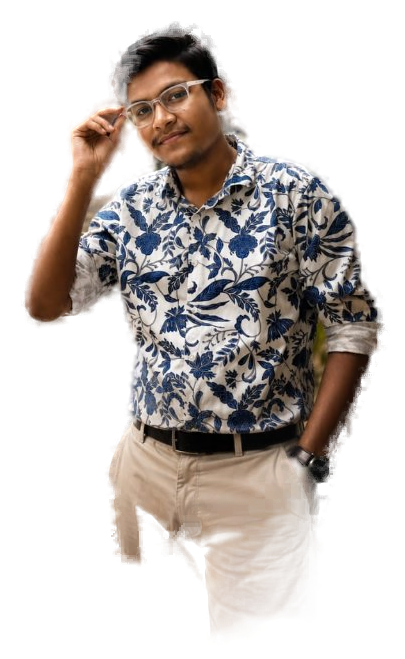
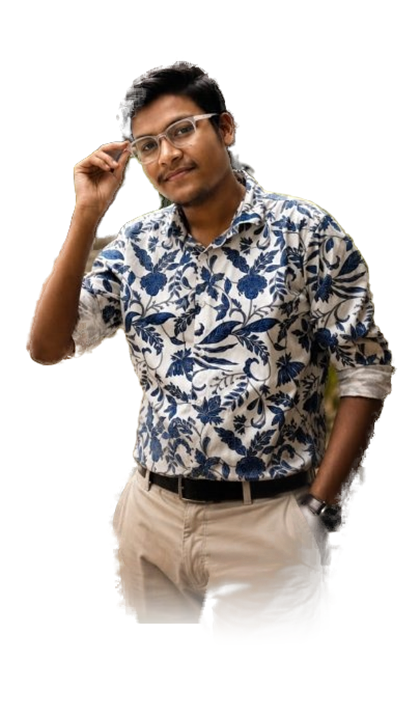
new updates

diff --git a/Portfolio/frontend/src/components/Hero.tsx b/Portfolio/frontend/src/components/Hero.tsx
@@ -18,9 +18,9 @@ export default function Hero({ onPlay, onResume, profileId }: { onPlay: () => vo
   const { scrollTo } = useSmoothScroll();
 
   const { scrollYProgress } = useScroll({ target: ref, offset: ['start start', 'end start'] });
-  const imgY = useTransform(scrollYProgress, [0, 1], ['0%', '18%']);
+  const imgY = useTransform(scrollYProgress, [0, 1], ['0%', '10%']);
   const imgScale = useTransform(scrollYProgress, [0, 1], [1, 1.12]);
-  const textY = useTransform(scrollYProgress, [0, 1], ['0%', '-30%']);
+  const textY = useTransform(scrollYProgress, [0, 1], ['0%', '-14%']);
   const fade = useTransform(scrollYProgress, [0, 0.75], [1, 0]);
   const blackout = useTransform(scrollYProgress, [0.35, 1], [0, 1]);
 
@@ -75,7 +75,7 @@ export default function Hero({ onPlay, onResume, profileId }: { onPlay: () => vo
 
       {/* portrait */}
       <motion.div
-        className="absolute inset-x-0 top-12 z-[2] flex h-[64svh] items-end justify-center sm:h-[70svh] lg:bottom-0 lg:left-auto lg:right-[3vw] lg:top-20 lg:h-auto lg:w-[54vw] xl:right-[6vw] xl:w-[48vw]"
+        className="absolute inset-x-0 top-14 z-[2] flex h-[58svh] items-end justify-center sm:h-[66svh] lg:bottom-0 lg:left-auto lg:right-[3vw] lg:top-16 lg:h-auto lg:w-[52vw] xl:right-[5vw] xl:w-[48vw]"
         style={{ y: imgY, scale: imgScale, opacity: fade }}
       >
         <motion.div
@@ -92,7 +92,7 @@ export default function Hero({ onPlay, onResume, profileId }: { onPlay: () => vo
             srcSet={profile.portrait.srcSet}
             sizes="(max-width: 1024px) 100vw, 54vw"
             alt={profile.portrait.alt}
-            className="absolute bottom-0 left-1/2 h-full w-auto max-w-none max-h-full -translate-x-1/2 object-contain object-bottom drop-shadow-[0_30px_60px_rgba(0,0,0,0.6)] [mask-image:linear-gradient(to_bottom,black_78%,transparent_100%)]"
+            className="absolute bottom-0 left-1/2 h-full w-auto max-w-none max-h-full -translate-x-1/2 object-contain object-bottom drop-shadow-[0_30px_60px_rgba(0,0,0,0.6)] [mask-image:linear-gradient(to_bottom,black_86%,transparent_100%)]"
           />
           {/* crimson rim light on the image edge */}
           <div aria-hidden className="pointer-events-none absolute inset-0 bg-[radial-gradient(60%_50%_at_80%_30%,rgba(255,61,90,0.16),transparent_70%)] mix-blend-screen" />
@@ -105,13 +105,13 @@ export default function Hero({ onPlay, onResume, profileId }: { onPlay: () => vo
       </motion.div>
 
       {/* readability gradients */}
-      <div aria-hidden className="absolute inset-x-0 top-[40svh] z-[3] h-[36svh] bg-gradient-to-b from-transparent via-ink/70 to-ink lg:hidden" />
+      <div aria-hidden className="absolute inset-x-0 top-[46svh] z-[3] h-[34svh] bg-gradient-to-b from-transparent via-ink/80 to-ink lg:hidden" />
       <div aria-hidden className="absolute inset-0 z-[3] hidden bg-[linear-gradient(90deg,var(--color-ink)_0%,rgba(7,7,10,0.7)_32%,transparent_58%)] lg:block" />
       <div aria-hidden className="absolute inset-x-0 bottom-0 z-[3] h-48 bg-gradient-to-t from-ink to-transparent" />
 
       {/* copy */}
       <motion.div
-        className="gutter relative z-[4] flex min-h-[100svh] flex-col justify-end pb-16 pt-[54svh] sm:pb-20 lg:max-w-[52vw] lg:justify-center lg:pb-0 lg:pt-24"
+        className="gutter relative z-[4] flex min-h-[100svh] flex-col justify-end pb-16 pt-[50svh] sm:pb-20 lg:max-w-[52vw] lg:justify-center lg:pb-0 lg:pt-24"
         style={{ y: textY, opacity: fade }}
         variants={container}
         initial="hidden"

diff --git a/Portfolio/frontend/src/components/OpeningSequence.tsx b/Portfolio/frontend/src/components/OpeningSequence.tsx
@@ -82,7 +82,7 @@ export default function OpeningSequence({ onDone }: { onDone: () => void }) {
 
       {/* portrait */}
       <motion.div
-        className="absolute inset-x-0 bottom-0 z-0 mx-auto flex h-[68vh] max-w-[900px] items-end justify-center pointer-events-none"
+        className="absolute inset-x-0 bottom-0 z-0 mx-auto flex h-[72vh] max-w-[900px] items-end justify-center pointer-events-none"
         initial={{ opacity: 0, scale: 1.08, filter: 'blur(18px) brightness(0.3)' }}
         animate={beat >= 4 ? { opacity: 1, scale: 1, filter: 'blur(0px) brightness(1)' } : {}}
         transition={{ duration: 1.6, ease: EASE }}
@@ -92,7 +92,7 @@ export default function OpeningSequence({ onDone }: { onDone: () => void }) {
           srcSet={profile.portrait.srcSet}
           sizes="(max-width: 768px) 100vw, 900px"
           alt={profile.portrait.alt}
-          className="h-full w-auto max-w-none max-h-full object-contain object-bottom [mask-image:linear-gradient(to_bottom,black_75%,transparent_100%)]"
+          className="h-full w-auto max-w-none max-h-full object-contain object-bottom [mask-image:linear-gradient(to_bottom,black_85%,transparent_100%)]"
         />
       </motion.div>
       <div aria-hidden className="absolute inset-0 z-[1] bg-[radial-gradient(70%_60%_at_50%_40%,transparent_30%,rgba(0,0,0,0.85)_100%)]" />
@@ -103,7 +103,7 @@ export default function OpeningSequence({ onDone }: { onDone: () => void }) {
           className="font-display leading-[0.82] text-bone drop-shadow-[0_8px_40px_rgba(0,0,0,0.8)]"
           style={{ fontSize: 'clamp(4.6rem, 20vw, 15rem)' }}
           initial={{ opacity: 0, scale: 1.3, filter: 'blur(20px)', letterSpacing: '0.5em' }}
-          animate={beat >= 2 ? { opacity: 1, scale: 1, filter: 'blur(0px)', letterSpacing: '0.04em', y: beat >= 4 ? '-30vh' : 0 } : {}}
+          animate={beat >= 2 ? { opacity: 1, scale: 1, filter: 'blur(0px)', letterSpacing: '0.04em', y: beat >= 4 ? '-24vh' : 0 } : {}}
           transition={{ duration: 1.3, ease: EASE }}
         >
           {profile.firstName}
@@ -111,7 +111,7 @@ export default function OpeningSequence({ onDone }: { onDone: () => void }) {
         <motion.p
           className="font-sans text-sm font-bold text-crimson-2 [text-shadow:0_2px_20px_rgba(0,0,0,0.9)] sm:text-lg"
           initial={{ opacity: 0, letterSpacing: '1.4em' }}
-          animate={beat >= 3 ? { opacity: 1, letterSpacing: '0.7em', y: beat >= 4 ? '-30vh' : 0 } : {}}
+          animate={beat >= 3 ? { opacity: 1, letterSpacing: '0.7em', y: beat >= 4 ? '-24vh' : 0 } : {}}
           transition={{ duration: 1.1, ease: EASE }}
         >
           {profile.seriesTag}

diff --git a/Portfolio/frontend/src/components/About.tsx b/Portfolio/frontend/src/components/About.tsx
@@ -31,10 +31,10 @@ export default function About() {
               sizes="(max-width: 1024px) 90vw, 40vw"
               alt={profile.portrait.alt}
               loading="lazy"
-              className="absolute bottom-0 left-1/2 h-[96%] w-auto max-w-full max-h-full -translate-x-1/2 object-contain object-bottom"
+              className="absolute bottom-0 left-1/2 h-[98%] w-auto max-w-full max-h-full -translate-x-1/2 object-contain object-bottom drop-shadow-[0_20px_40px_rgba(0,0,0,0.7)] z-[1]"
             />
-            <div className="absolute inset-x-0 bottom-0 h-1/3 bg-gradient-to-t from-black/90 to-transparent" />
-            <div className="absolute bottom-5 left-5 right-5 flex items-end justify-between">
+            <div className="absolute inset-x-0 bottom-0 h-2/5 bg-gradient-to-t from-black/95 via-black/50 to-transparent z-[2]" />
+            <div className="absolute bottom-5 left-5 right-5 z-[3] flex items-end justify-between">
               <div>
                 <p className="text-[10px] font-bold tracking-[0.3em] text-crimson-2">STARRING</p>
                 <p className="font-display text-3xl leading-none text-bone">{profile.displayName}</p>

diff --git a/Portfolio/frontend/src/components/ProfileSelector.tsx b/Portfolio/frontend/src/components/ProfileSelector.tsx
@@ -9,7 +9,7 @@ export function ProfileAvatar({ id, size = 'lg' }: { id: ProfileId; size?: 'sm' 
   if (id === 'debdipttya') {
     return (
       <span className={`relative block overflow-hidden ${box}`} style={{ background: 'radial-gradient(circle at 50% 30%, #7a0f24, #1a0509)' }}>
-        <img src="/assets/avatar-debdipttya.webp" alt="Debdipttya Das" className="absolute inset-0 h-full w-full object-cover object-center" />
+        <img src="/assets/avatar-debdipttya.png" alt="Debdipttya Das" className="absolute inset-0 h-full w-full object-cover object-center" />
       </span>
     );
   }

diff --git a/Portfolio/frontend/src/components/PlayIntro.tsx b/Portfolio/frontend/src/components/PlayIntro.tsx
@@ -98,7 +98,7 @@ export default function PlayIntro({ onClose }: { onClose: () => void }) {
         initial={{ scale: 1, opacity: 1 }}
         animate={phase === 'zoom' ? { scale: [1, 1.08, 2.6], opacity: [0.9, 1, 0] } : { opacity: 0.1, scale: 1.25, filter: 'blur(4px)' }}
         transition={{ duration: phase === 'zoom' ? 1.7 : 1.2, ease: [0.7, 0, 0.2, 1], times: phase === 'zoom' ? [0, 0.3, 1] : undefined }}
-        style={{ transformOrigin: '50% 30%' }}
+        style={{ transformOrigin: '50% 18%' }}
       >
         <img
           src={profile.portrait.src}

diff --git a/Portfolio/frontend/index.html b/Portfolio/frontend/index.html
@@ -14,7 +14,7 @@
     <link rel="preconnect" href="https://fonts.googleapis.com" />
     <link rel="preconnect" href="https://fonts.gstatic.com" crossorigin />
     <link href="https://fonts.googleapis.com/css2?family=Bebas+Neue&family=Instrument+Serif:ital@0;1&family=Inter:wght@300;400;500;600;700;800&display=swap" rel="stylesheet" />
-    <link rel="preload" as="image" href="/assets/portrait-720.webp" type="image/webp" />
+    <link rel="preload" as="image" href="/assets/portrait-720.png" type="image/png" />
   </head>
   <body>
     <div id="root"></div>

diff --git a/Portfolio/frontend/src/data/portfolio.ts b/Portfolio/frontend/src/data/portfolio.ts
@@ -25,8 +25,8 @@ export const profile = {
   },
   resumePdf: '/assets/Debdipttya_Das_Resume.pdf',
   portrait: {
-    src: '/assets/portrait-720.webp',
-    srcSet: '/assets/portrait-420.webp 420w, /assets/portrait-720.webp 720w, /assets/portrait-1100.webp 1100w',
+    src: '/assets/portrait-720.png',
+    srcSet: '/assets/portrait-420.png 420w, /assets/portrait-720.png 720w, /assets/portrait-1100.png 1100w',
     alt: 'Portrait of Debdipttya Das',
   },
   interests: ['Machine Learning', 'Cloud Computing', 'n8n Automation', 'System Design'],
